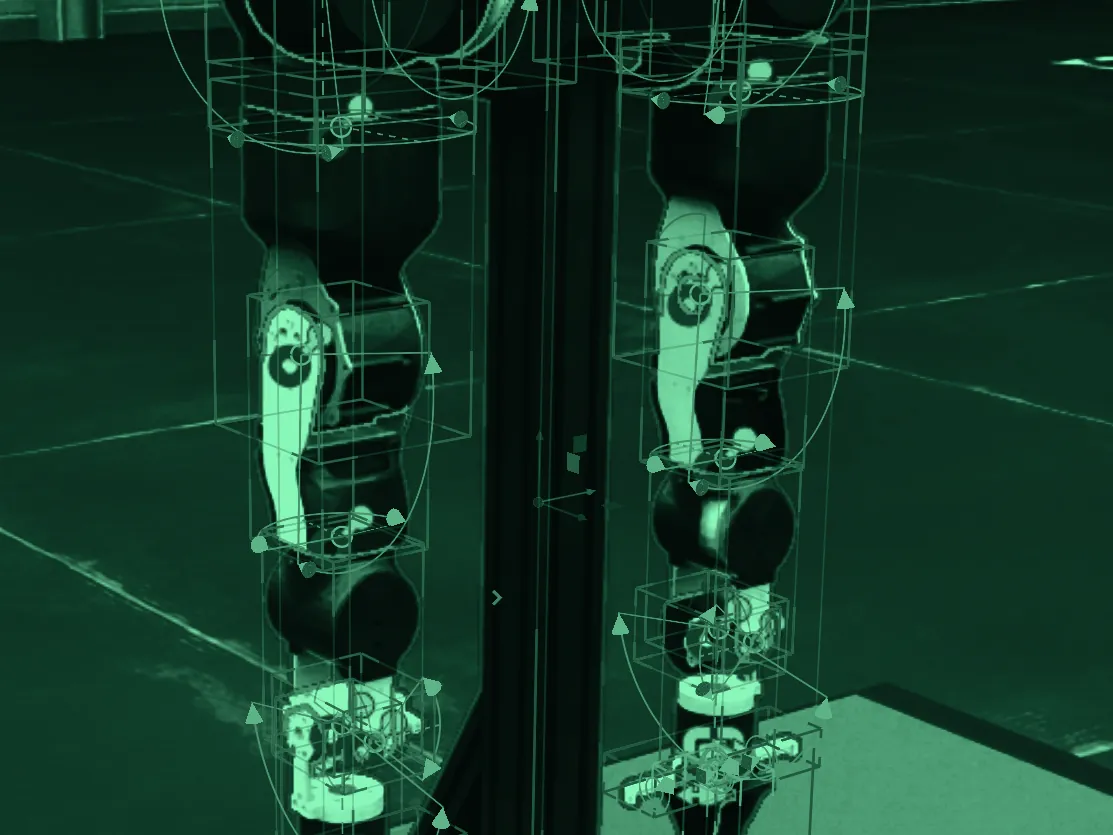
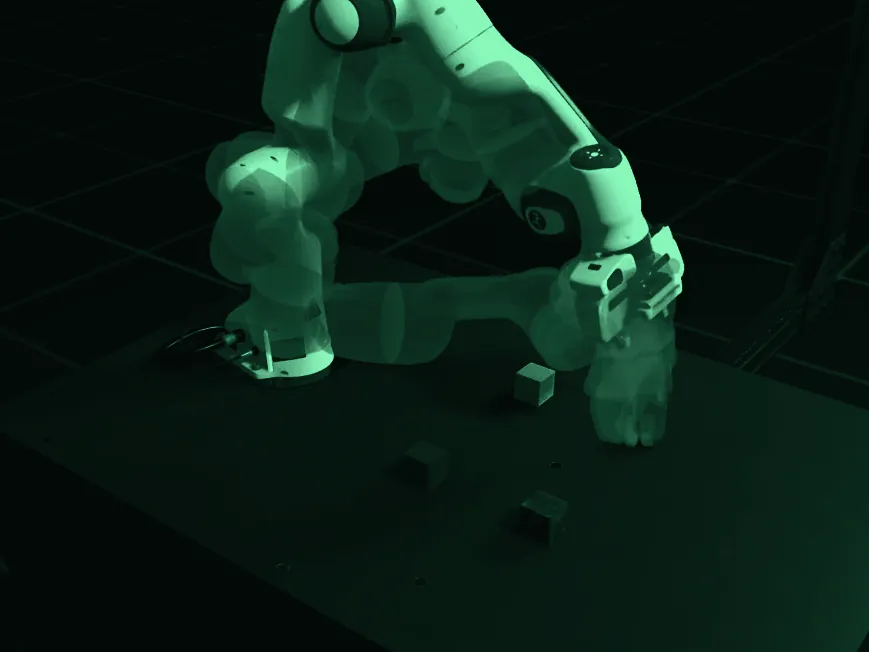
feat(media): 실제 캡처 3종 도입 + 심 머신 형태 어휘 PHANTOM SOURCE 추가
이미지 4장을 교체·추가했다. 전부 컨셉 §5 노출 예산(밝은 픽셀 ≤20%) 안이며,
측정값을 함께 남긴다 — 눈으로 판단하지 않는다.

physical-ai.webp — Services 의 PHYSICAL AI 자리가 휴머노이드 URDF 캡처를
재활용하고 있었다. 실제 테스트베드 캡처(sim_testbed.jpg)로 교체한다. 팔 +
충돌 형상 오버레이 + 파지 대상이 한 컷에 있어 슬롯 의미와 맞는다.
원본이 레터박스 16:9 프레임이라 위아래 34px 을 자르고 슬롯 비율(4:3)로 재크롭.
**감마를 1.30 으로 낮게 준다** — 배경이 이미 near-black 이라 기존 사진들과
반대 방향의 보정이다(밝은 배경 원본은 1.35~1.85 로 눌렀다). 측정 11.8%.

drive-alignment.webp — 구동부 정합 케이스용. 테스트베드 전경에서 **바퀴 구간만**
잘랐다. 케이스 주제가 차체가 아니라 구동 관절이기 때문이다. 오른쪽 위 편집기
툴팁 글자가 들어오지 않는 선(x < 1700)에서 끊었다(§17 이미지에 글자 금지).
바닥이 밝은 회색이라 감마 2.2. 측정 21.3%.

facility-overhead.webp — 홈 "Engineering Before Assumption" 자리.
원본 현장 사진에 **기관 표식과 안내판이 찍혀 있어 크롭 자체가 익명화 수단**이다.
천장 반송 레일 구간만 남기고 아래쪽 이동 로봇과 유리 반사를 잘라냈다.
남은 것이 레일과 조명의 격자라 사이트의 격자 간섭 언어와 그대로 맞는다.
원본은 커밋하지 않는다(.gitignore) — 공개 저장소에 원본을 올리면 익명화가 무의미하다.
ATTRIBUTION.md 에 "이 크롭은 구도가 아니라 공개 근거다" 로 못박았다.
전용 슬롯 home-why 를 새로 만들어 service-feasibility 재사용을 끊었다.

sim-machine-field.webp — `PHANTOM SOURCE`, 형태 어휘 8번째(컨셉 §4 등록).
심 머신은 몸 없는 컨트롤러다. 로봇 없이 펌웨어가 돌고 결과는 실기와 같은 법칙을
따른다 — **원인의 자리는 비었는데 결과의 장은 온전하다.** 게다가 둘(가상·실기)인데
근사가 아니라 같은 법칙이라 장을 보고는 어느 쪽이 원본인지 알 수 없다.
그대로 옮겼다: 같은 파수·같은 위상의 두 파원, 두 파원 자리의 공백, 완전한 대칭축.
구현에서 **진폭을 더한 뒤 제곱**해야 간섭이 생긴다 — 세기를 더하면 밝은 얼룩 둘이
될 뿐이다. 다른 형태가 중심을 발광시키는 것과 정반대로 중심을 도려냈다. 측정 8.1%.

diff --git a/src/content/media.ts b/src/content/media.ts
@@ -151,7 +151,7 @@ export const mediaManifest = mediaManifestSchema.parse({
   "service-physical-ai": {
     kind: "image",
     src: "/media/physical-ai.webp",
-    alt: "테스트 리그에 장착된 휴머노이드 하체의 물리 검증 환경",
+    alt: "충돌 형상이 겹쳐 표시된 로봇팔이 작업대 위 물체를 파지하는 시뮬레이션 테스트베드",
     clearance: "self-produced",
   },
   "project-machine-tending": {
@@ -161,6 +161,29 @@ export const mediaManifest = mediaManifestSchema.parse({
   "project-navigation": {
     kind: "placeholder",
     intent: "다중 LiDAR 병합 결과 — 두 스캔이 하나로 합쳐진 점군 화면",
+  },
+  /**
+   * 심 머신(컨트롤러 펌웨어)의 형이상학을 형태로 옮긴 장.
+   * 파면은 온전한데 두 파원의 자리가 비어 있다 — 몸 없는 컨트롤러가 둘.
+   * 생성: `scripts/gen-fields.py build_sim_machine_field()` (비주얼 컨셉 §4 `PHANTOM SOURCE`)
+   */
+  "project-sim-machine": {
+    kind: "image",
+    src: "/media/sim-machine-field.webp",
+    alt: "두 파원의 자리가 비어 있는 초록빛 간섭 파면",
+    clearance: "self-produced",
+  },
+  "home-why": {
+    kind: "image",
+    src: "/media/facility-overhead.webp",
+    alt: "천장 반송 레일과 조명이 격자를 이루는 자동화 설비 내부",
+    clearance: "anonymized",
+  },
+  "project-drive-alignment": {
+    kind: "image",
+    src: "/media/drive-alignment.webp",
+    alt: "이동 베이스의 구동 휠과 캐스터, 회전 관절 축이 표시된 시뮬레이션 클로즈업",
+    clearance: "self-produced",
   },
   "project-amr-manipulator": {
     kind: "image",

diff --git a/src/content/home.ts b/src/content/home.ts
@@ -57,7 +57,7 @@ export const home = homeSchema.parse({
     eyebrow: "06 — Why Simulation First",
     title: "Engineering Before Assumption.",
     body: "가상환경에서 발견한 문제는 수정 비용이 거의 들지 않습니다. 실물에서 발견하면 그렇지 않습니다. 그래서 결론과 함께 그 결론의 신뢰 등급을 드립니다.",
-    mediaSlot: "service-feasibility",
+    mediaSlot: "home-why",
   },
 
   contact: {

diff --git a/scripts/gen-fields.py b/scripts/gen-fields.py
@@ -300,6 +300,51 @@ def build_technology_field() -> np.ndarray:
     return np.clip(np.clip(field, 0.0, 1.0) ** 1.18 * 0.88, 0.0, 1.0)
 
 
+def build_sim_machine_field() -> np.ndarray:
+    """`PHANTOM SOURCE` — 파면은 완전한데 파원의 자리가 비어 있고, 그것이 둘이다.
+
+    **형이상학적 분석** — '심 머신'은 몸 없는 컨트롤러다. 실기체의 펌웨어가 로봇 없이 돌아가고,
+    그 결과는 실기와 같은 법칙을 따른다. 즉 **원인의 자리는 비었는데 결과의 장은 온전하다.**
+    게다가 그것은 하나가 아니라 둘이다 — 가상 컨트롤러와 실기 컨트롤러. 둘은 근사가 아니라
+    같은 법칙이므로, 만들어 내는 파면도 같다. **어느 쪽이 원본인지 장을 보고는 알 수 없다.**
+
+    그래서 형태를 이렇게 정했다:
+
+    | 요소                    | 뜻                                                     |
+    | ----------------------- | ------------------------------------------------------ |
+    | 같은 파수 · 같은 위상   | 두 컨트롤러가 같은 법칙을 쓴다                         |
+    | 두 파원 자리의 **공백** | 몸이 없다 — 결과만 있고 원인의 실체가 없다             |
+    | 두 장의 겹침(간섭)      | 검증이란 두 장이 겹치는 자리를 재는 일이다             |
+    | 좌우 대칭축             | 원본과 사본을 구분할 수 없는 선 — 이 구조가 노리는 상태 |
+
+    비주얼 컨셉 §4 의 파원 구성 어휘에 `PHANTOM SOURCE` 로 추가했다.
+    """
+    x, y = grid(0.50, 0.46, squash=1.0)
+
+    separation = 0.44
+    left = np.sqrt((x + separation) ** 2 + y**2) + 1e-3
+    right = np.sqrt((x - separation) ** 2 + y**2) + 1e-3
+
+    # 진폭을 더한 뒤 제곱한다 — 세기를 더하는 것과 다르다.
+    # 이렇게 해야 두 파원이 **간섭**하고, 마디와 배가 실제 위치에 생긴다.
+    # 거리에 따른 감쇠(1/√r)까지 넣어야 파면이 멀리서 균일하게 밝아지지 않는다.
+    wavenumber = 25.0
+    amplitude = np.cos(left * wavenumber) / np.sqrt(left) + np.cos(right * wavenumber) / np.sqrt(
+        right
+    )
+    field = (amplitude * 0.42) ** 2
+
+    # **파원의 공백** — 이 그림의 핵심. 보통은 중심을 발광시키지만 여기서는 도려낸다.
+    hollow = 0.22
+    field *= 1.0 - np.exp(-((left / hollow) ** 2.6))
+    field *= 1.0 - np.exp(-((right / hollow) ** 2.6))
+
+    # 두 파원의 중점에서 멀어질수록 옅어진다.
+    field *= np.exp(-((np.sqrt(x**2 + y**2) / 1.30) ** 2.0))
+
+    return np.clip(np.clip(field, 0.0, 1.0) ** 1.05 * 0.90, 0.0, 1.0)
+
+
 def apply_ramp(field: np.ndarray) -> np.ndarray:
     """스칼라 밝기장을 초록 램프 색으로 매핑한다."""
     positions = np.array([stop for stop, _ in RAMP], dtype=np.float32)
@@ -339,6 +384,7 @@ def main() -> None:
     render("services-field", build_services_field())
     render("projects-field", build_projects_field())
     render("technology-field", build_technology_field())
+    render("sim-machine-field", build_sim_machine_field())
 
     # 파비콘 — Next.js App Router 가 src/app/icon.png 를 자동으로 <link rel="icon"> 으로 만든다.
     app_dir = ROOT / "src" / "app"

diff --git a/scripts/build-media.py b/scripts/build-media.py
@@ -40,7 +40,20 @@ JOBS = [
     ("simulation-poc", "franka_fr3.png", (100, 40, 1656, 1207), 1400, 0.92, 1.75),
     ("collision-validation", "agility-a01_urdf.png", (0, 400, 1113, 1235), 1113, 1.00, 1.35),
     ("humanoid", "agility-a01_urdf.png", (0, 500, 1113, 1126), 1113, 1.00, 1.35),
-    ("physical-ai", "agility-a01_urdf.png", (0, 300, 1113, 1135), 1113, 1.00, 1.35),
+    # 시뮬레이션 테스트베드 캡처. 원본이 레터박스가 있는 16:9 프레임이라 위아래 34px 검은 띠를
+    # 잘라내고(34~686), 서비스 슬롯 비율(4:3)에 맞춰 팔을 중심으로 가로를 다시 잘랐다.
+    # 배경이 이미 near-black 이라 감마를 낮게(1.30) 두어 피사체가 죽지 않게 한다 —
+    # 밝은 배경 원본(URDF 뷰어 캡처)과는 반대 방향의 보정이다.
+    ("physical-ai", "sim_testbed.jpg", (246, 34, 1115, 686), 869, 1.00, 1.30),
+    # 구동부 클로즈업. 원본은 테스트베드 전경이라 **바퀴 구간만** 잘라 쓴다 —
+    # 이 케이스가 말하는 것이 차체 전체가 아니라 구동 관절이기 때문이다.
+    # 오른쪽 위 편집기 툴팁 글자가 들어오지 않는 선(x < 1700)에서 끊었다(컨셉 §17 — 이미지에 글자 금지).
+    # 바닥이 밝은 회색이라 감마를 크게(2.2) 준다.
+    ("drive-alignment", "motion_devece_mk1intestbed.png", (630, 570, 1700, 1172), 1070, 0.85, 2.20),
+    # 실제 설비 내부. **천장 반송 레일 구간만** 쓴다 —
+    # 아래쪽 이동 로봇에 기관 표식이 읽히므로 크롭에서 제외한다(익명화).
+    # 유리에 비친 안내판 반사도 오른쪽 밖으로 밀어냈다. 실내가 밝아 감마를 크게(2.2) 준다.
+    ("facility-overhead", "KakaoTalk_20260813_175714350.jpg", (300, 0, 993, 520), 693, 0.85, 2.20),
     ("industrial-cell", "industrial-cell.jpg", None, 1920, 0.95, 1.60),
     ("digital-twin-pointcloud", "lidar-point-cloud.jpg", None, 1920, 1.05, 1.15),
     ("actuator-harmonic-drive", "harmonic-drive.jpg", (60, 120, 1700, 1670), 1200, 0.90, 1.85),

diff --git a/scripts/자산_맵.md b/scripts/자산_맵.md
@@ -27,30 +27,32 @@
 
 전부 **자체 제작(self-produced)** 이라 출처 표기가 붙지 않는다.
 
-| 출력 파일                              | 생성 함수                    | 형태 (컨셉 §4) | 뜻 (컨셉 §2)                 | 쓰이는 곳                       | 매니페스트 슬롯       |
-| -------------------------------------- | ---------------------------- | -------------- | ---------------------------- | ------------------------------- | --------------------- |
-| `public/media/home-hero-field.webp`    | `build_hero_field()`         | `RING`         | 가능성의 장                  | 홈 히어로 (전체 화면)           | `home-hero`           |
-| `public/media/home-contact-field.webp` | `build_contact_field()`      | `FRINGE`       | 조건이 겹쳐 결과가 갈림      | 홈 마무리 CTA                   | `home-contact`        |
-| `public/media/about-field.webp`        | `build_about_field()`        | `WAVEFRONT`    | 작업 영역의 경계             | About 페이지 **전체 배경**      | `about-backdrop`      |
-| `public/media/contact-page-field.webp` | `build_contact_page_field()` | `FRINGE`       | 위와 같음 (넓고 조용한 변주) | Contact 페이지 **전체 배경**    | `contact-backdrop`    |
-| `public/media/services-field.webp`     | `build_services_field()`     | `NODE`         | 해가 사라지는 지점           | Services 페이지 **전체 배경**   | `services-backdrop`   |
-| `public/media/projects-field.webp`     | `build_projects_field()`     | `RING`         | 측정 · 확정 (코어 강조)      | Projects 페이지 **전체 배경**   | `projects-backdrop`   |
-| `public/media/technology-field.webp`   | `build_technology_field()`   | `WAVEFRONT`    | 경계 (발원점이 화면 안)      | Technology 페이지 **전체 배경** | `technology-backdrop` |
-| `src/app/icon.png` (256px)             | `build_icon_field()`         | `RING`         | 가능성의 장                  | 브라우저 탭 파비콘              | — (Next 규약)         |
-| `src/app/apple-icon.png` (180px)       | `build_icon_field()`         | `RING`         | 위와 같음                    | iOS 홈 화면                     | — (Next 규약)         |
+| 출력 파일                              | 생성 함수                    | 형태 (컨셉 §4)   | 뜻 (컨셉 §2)                           | 쓰이는 곳                            | 매니페스트 슬롯       |
+| -------------------------------------- | ---------------------------- | ---------------- | -------------------------------------- | ------------------------------------ | --------------------- |
+| `public/media/home-hero-field.webp`    | `build_hero_field()`         | `RING`           | 가능성의 장                            | 홈 히어로 (전체 화면)                | `home-hero`           |
+| `public/media/home-contact-field.webp` | `build_contact_field()`      | `FRINGE`         | 조건이 겹쳐 결과가 갈림                | 홈 마무리 CTA                        | `home-contact`        |
+| `public/media/about-field.webp`        | `build_about_field()`        | `WAVEFRONT`      | 작업 영역의 경계                       | About 페이지 **전체 배경**           | `about-backdrop`      |
+| `public/media/contact-page-field.webp` | `build_contact_page_field()` | `FRINGE`         | 위와 같음 (넓고 조용한 변주)           | Contact 페이지 **전체 배경**         | `contact-backdrop`    |
+| `public/media/services-field.webp`     | `build_services_field()`     | `NODE`           | 해가 사라지는 지점                     | Services 페이지 **전체 배경**        | `services-backdrop`   |
+| `public/media/projects-field.webp`     | `build_projects_field()`     | `RING`           | 측정 · 확정 (코어 강조)                | Projects 페이지 **전체 배경**        | `projects-backdrop`   |
+| `public/media/technology-field.webp`   | `build_technology_field()`   | `WAVEFRONT`      | 경계 (발원점이 화면 안)                | Technology 페이지 **전체 배경**      | `technology-backdrop` |
+| `public/media/sim-machine-field.webp`  | `build_sim_machine_field()`  | `PHANTOM SOURCE` | 몸 없는 컨트롤러 — 원인의 자리가 빈 장 | 컨트롤러 인더루프 케이스 대표 이미지 | `project-sim-machine` |
+| `src/app/icon.png` (256px)             | `build_icon_field()`         | `RING`           | 가능성의 장                            | 브라우저 탭 파비콘                   | — (Next 규약)         |
+| `src/app/apple-icon.png` (180px)       | `build_icon_field()`         | `RING`           | 위와 같음                              | iOS 홈 화면                          | — (Next 규약)         |
 
 ### 형태별 핵심 파라미터
 
-| 함수                       | 값                                                                                         | 의도                                                 |
-| -------------------------- | ------------------------------------------------------------------------------------------ | ---------------------------------------------------- |
-| `build_hero_field`         | 중심 `(0.64, 0.33)` · 고리 `r=0.66 w=0.150` + `r=0.30 w=0.110` · 감마 `1.25` · 게인 `0.95` | 우상단 배치 — 좌하단 카피 자리를 비운다              |
-| `build_contact_field`      | 중심 `(0.74, 0.50)` · 파동원 간격 `0.62` · 파수 `11.0` · 감마 `1.35`                       | 우측 배치 — 좌측 1/3 을 검게 비운다                  |
-| `build_about_field`        | 위상 `y·13.0 + x·0.9` · 감마 `1.25` · 게인 `0.80`                                          | 약한 기울기 — 완전 수평이면 벽지가 된다              |
-| `build_contact_page_field` | 꼭짓점 `(0.30, 0.52)` · 기울기 `0.62` · 파수 `15.0` · 감마 `1.20` · 게인 `0.82`            | 꼭짓점 앞은 비운다 — 파면이 아직 도달하지 않은 자리  |
-| `build_services_field`     | 중심 `(0.72, 0.44)` · 정상파 파수 `15.0` · 발광 `/0.74` · 감마 `1.60` · 게인 `0.78`        | 밝은 장에 **어두운 마디**를 새긴다 — 마디가 주인공   |
-| `build_projects_field`     | 중심 `(0.70, 0.40)` · 코어 `/0.20` · 고리 `r=0.58, 0.34` · 감마 `1.20` · 게인 `0.90`       | 테두리가 아니라 **코어**가 주인공 — 확정된 하나의 값 |
-| `build_technology_field`   | 중심 `(0.68, 0.46)` · 파수 `22.0` · 부채꼴 `190°/1.35` · 감마 `1.18` · 게인 `0.88`         | About 과 달리 **발원점을 화면 안에** 둔다            |
-| `build_icon_field`         | 고리 `r=0.62 w=0.230` + `r=0.27 w=0.150` · 감마 `0.85` · 블러 `size/180`                   | 16px 에서 읽히도록 두껍고 대비 강하게                |
+| 함수                       | 값                                                                                         | 의도                                                    |
+| -------------------------- | ------------------------------------------------------------------------------------------ | ------------------------------------------------------- |
+| `build_hero_field`         | 중심 `(0.64, 0.33)` · 고리 `r=0.66 w=0.150` + `r=0.30 w=0.110` · 감마 `1.25` · 게인 `0.95` | 우상단 배치 — 좌하단 카피 자리를 비운다                 |
+| `build_contact_field`      | 중심 `(0.74, 0.50)` · 파동원 간격 `0.62` · 파수 `11.0` · 감마 `1.35`                       | 우측 배치 — 좌측 1/3 을 검게 비운다                     |
+| `build_about_field`        | 위상 `y·13.0 + x·0.9` · 감마 `1.25` · 게인 `0.80`                                          | 약한 기울기 — 완전 수평이면 벽지가 된다                 |
+| `build_contact_page_field` | 꼭짓점 `(0.30, 0.52)` · 기울기 `0.62` · 파수 `15.0` · 감마 `1.20` · 게인 `0.82`            | 꼭짓점 앞은 비운다 — 파면이 아직 도달하지 않은 자리     |
+| `build_services_field`     | 중심 `(0.72, 0.44)` · 정상파 파수 `15.0` · 발광 `/0.74` · 감마 `1.60` · 게인 `0.78`        | 밝은 장에 **어두운 마디**를 새긴다 — 마디가 주인공      |
+| `build_projects_field`     | 중심 `(0.70, 0.40)` · 코어 `/0.20` · 고리 `r=0.58, 0.34` · 감마 `1.20` · 게인 `0.90`       | 테두리가 아니라 **코어**가 주인공 — 확정된 하나의 값    |
+| `build_technology_field`   | 중심 `(0.68, 0.46)` · 파수 `22.0` · 부채꼴 `190°/1.35` · 감마 `1.18` · 게인 `0.88`         | About 과 달리 **발원점을 화면 안에** 둔다               |
+| `build_icon_field`         | 고리 `r=0.62 w=0.230` + `r=0.27 w=0.150` · 감마 `0.85` · 블러 `size/180`                   | 16px 에서 읽히도록 두껍고 대비 강하게                   |
+| `build_sim_machine_field`  | 파원 간격 `0.44` · 파수 `25.0` · 공백 `0.22` · 감마 `1.05` · 게인 `0.90`                   | **진폭을 더한 뒤 제곱** — 세기를 더하면 간섭이 사라진다 |
 
 ### 공통 처리
 
@@ -68,13 +70,16 @@
 
 `image/` 원본 → 크롭 · 리사이즈 · 초록 듀오톤. 파라미터는 그 스크립트의 `JOBS` 표에 이미지별로 있다.
 
-| 출력 파일                                                          | 원본                    | 공개 근거               |
-| ------------------------------------------------------------------ | ----------------------- | ----------------------- |
-| `amr-manipulator.webp` · `simulation-poc.webp`                     | `franka_fr3.png`        | self-produced           |
-| `collision-validation.webp` · `humanoid.webp` · `physical-ai.webp` | `agility-a01_urdf.png`  | self-produced           |
-| `industrial-cell.webp`                                             | `industrial-cell.jpg`   | **licensed** (CC0)      |
-| `digital-twin-pointcloud.webp`                                     | `lidar-point-cloud.jpg` | **licensed** (CC BY)    |
-| `actuator-harmonic-drive.webp`                                     | `harmonic-drive.jpg`    | **licensed** (CC BY-SA) |
+| 출력 파일                                      | 원본                                                     | 공개 근거               |
+| ---------------------------------------------- | -------------------------------------------------------- | ----------------------- |
+| `amr-manipulator.webp` · `simulation-poc.webp` | `franka_fr3.png`                                         | self-produced           |
+| `collision-validation.webp` · `humanoid.webp`  | `agility-a01_urdf.png`                                   | self-produced           |
+| `physical-ai.webp`                             | `sim_testbed.jpg`                                        | self-produced           |
+| `facility-overhead.webp`                       | `KakaoTalk_20260813_175714350.jpg` (천장 레일 구간 크롭) | **anonymized**          |
+| `drive-alignment.webp`                         | `motion_devece_mk1intestbed.png` (바퀴 구간 크롭)        | self-produced           |
+| `industrial-cell.webp`                         | `industrial-cell.jpg`                                    | **licensed** (CC0)      |
+| `digital-twin-pointcloud.webp`                 | `lidar-point-cloud.jpg`                                  | **licensed** (CC BY)    |
+| `actuator-harmonic-drive.webp`                 | `harmonic-drive.jpg`                                     | **licensed** (CC BY-SA) |
 
 출처·라이선스 원문은 [`image/ATTRIBUTION.md`](../image/ATTRIBUTION.md), 화면 표기 규칙은 `docs/미디어_자산_명세서.md` §4.
 

diff --git a/image/ATTRIBUTION.md b/image/ATTRIBUTION.md
@@ -5,10 +5,23 @@
 
 ## 자체 제작 (self-produced)
 
-| 파일                   | 내용                                             |
-| ---------------------- | ------------------------------------------------ |
-| `franka_fr3.png`       | Isaac Sim — AMR 위 듀얼 암 매니퓰레이터, 관절 축 |
-| `agility-a01_urdf.png` | Isaac Sim — 휴머노이드 하체 충돌 메시 · 조인트   |
+| 파일                             | 내용                                                            |
+| -------------------------------- | --------------------------------------------------------------- |
+| `franka_fr3.png`                 | Isaac Sim — AMR 위 듀얼 암 매니퓰레이터, 관절 축                |
+| `agility-a01_urdf.png`           | Isaac Sim — 휴머노이드 하체 충돌 메시 · 조인트                  |
+| `sim_testbed.jpg`                | 시뮬레이션 테스트베드 — 7축 팔의 충돌 형상 오버레이와 파지 대상 |
+| `motion_devece_mk1intestbed.png` | 이동 베이스 테스트베드 — 구동 휠·캐스터와 회전 관절 축 표시     |
+
+## 익명화 처리 (anonymized)
+
+현장에서 촬영한 사진이다. 원본에는 **기관 표식과 안내판**이 찍혀 있어, 크롭 자체가 익명화 수단이다.
+
+| 파일                               | 제외한 것                                      | 남긴 것                    |
+| ---------------------------------- | ---------------------------------------------- | -------------------------- |
+| `KakaoTalk_20260813_175714350.jpg` | 이동 로봇 차체의 기관 마크, 유리에 비친 안내판 | 천장 반송 레일 · 조명 격자 |
+
+> 크롭 좌표는 `scripts/build-media.py` 의 `JOBS` 에 있다. **좌표를 넓히면 익명화가 깨진다** —
+> 이 파일의 크롭은 구도가 아니라 **공개 근거**다.
 
 ## 제3자 자유 라이선스 (licensed)
 

diff --git a/docs/비주얼_컨셉_파동과_간섭.md b/docs/비주얼_컨셉_파동과_간섭.md
@@ -145,7 +145,18 @@
 - 구현: `|cos(kx) · cos(ky)|`. 봉투로 감싸지 않으면 화면을 덮어 방충망이 된다.
 - 쓰는 곳: **Projects 페이지 배경** — 계측 격자처럼 읽힌다. "무엇이 확인되었는가"의 자리.
 
-> 네 형태 모두 **정지 이미지**다. 움직이지 않아도 뜻이 전달되어야 한다.
+### ⑧ 유령 파원 — 자리가 빈 두 파원 `PHANTOM SOURCE` ✅
+
+- 뜻: **결과의 장은 온전한데 원인의 자리가 비어 있다.** 그리고 그것이 둘이다.
+  컨트롤러 펌웨어가 로봇 없이 도는 상태 — 몸은 없고 법칙만 있는 기계 — 를 형태로 옮긴 것이다.
+  두 파원은 같은 파수·같은 위상이므로 **어느 쪽이 원본인지 장을 보고는 알 수 없다.**
+  가상 컨트롤러와 실기 컨트롤러가 근사가 아니라 같은 법칙이라는 뜻이고, 그것이 이 구조의 목표다.
+- 구현: 진폭을 더한 뒤 제곱한다(`(cos(k·r₁)/√r₁ + cos(k·r₂)/√r₂)²`) — 세기를 더하면 간섭이 사라진다.
+  그다음 **두 파원 자리를 도려낸다**(가우시안 역마스크). 다른 형태가 중심을 발광시키는 것과 정반대다.
+- 쓰는 곳: **컨트롤러 인더루프 케이스 스터디의 대표 이미지.**
+  페이지 배경으로는 쓰지 않는다 — 무늬가 촘촘해 본문을 방해한다.
+
+> 형태 모두 **정지 이미지**다. 움직이지 않아도 뜻이 전달되어야 한다.
 > 스크롤 리빌(페이드 인) 외의 모션을 붙이지 않는다.
 
 ### 축척에 따른 재작도
